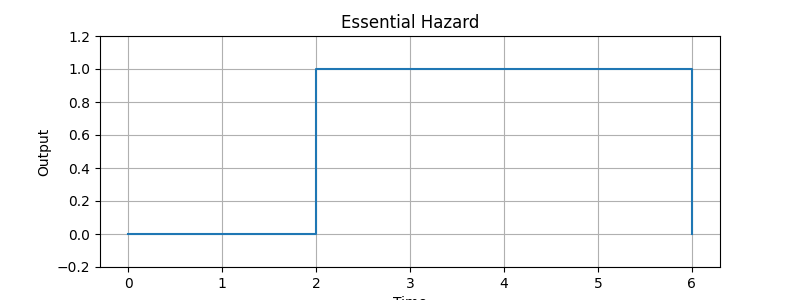
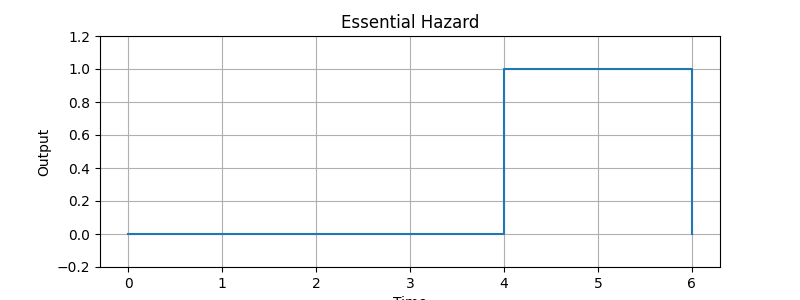
commit

Changed region(s): [[0.375, 0.75, 0.625, 0.81], [0.375, 0.21, 0.625, 0.24]]

diff --git a/README.md b/README.md
@@ -148,12 +148,12 @@ Show waveform? (y/n): y
 ## 📊 Sample Output
 
 ```text
-Hazard 1: Static-1 Hazard
-Transition: (0, 1, 1) → (1, 1, 1)
-Confidence: 85%
+Hazard 2: Essential Hazard
+Transition: (0, 1, 1) → (1, 0, 1)
+Confidence: 100%
 Severity (toggles): 2
-Explanation: Unequal delays in OR reconvergent paths.
-Suggested Consensus Term: B & C
+Explanation: Unavoidable delay dependency.
+Suggested Consensus Term: ~B
 ```
 
 ---
